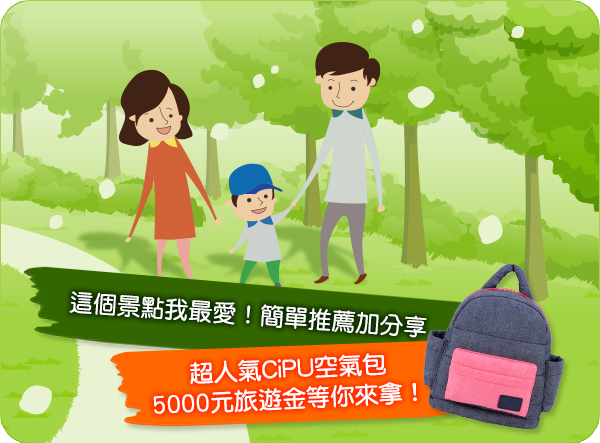
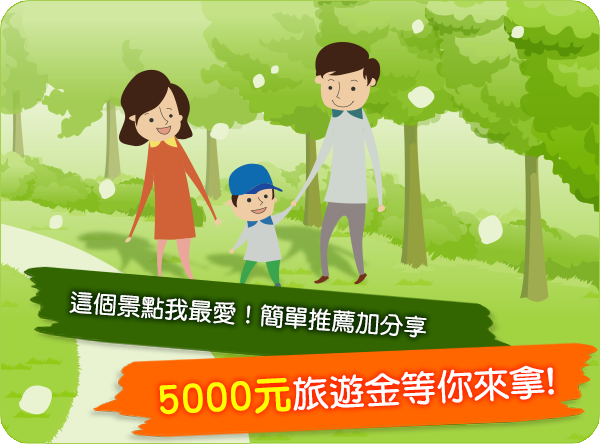
layout optimization

diff --git a/eggshell_v01/event.html b/eggshell_v01/event.html
@@ -278,14 +278,22 @@
             </div>
             <div id="event-index-img">
                 <img src="img/event/event_index.png" />
-            </div>
-            <div class="event-index-btn-group">
-                <img class="event_index_btn1" onclick="ga('send', 'event', '活動頁', 'Click', '分享景點好禮抽');" src="img/event/event_index_btn1.png" />
-                <img class="event_index_btn2" onclick="ga('send', 'event', '活動頁', 'Click', '推薦景點抽大獎');" src="img/event/event_index_btn2.png" />
+                <div class="event-index-btn-group">
+                    <img class="event_index_btn1" onclick="ga('send', 'event', '活動頁', 'Click', '分享景點好禮抽');" src="img/event/event_index_btn1.png" />
+                    <img class="event_index_btn2" onclick="ga('send', 'event', '活動頁', 'Click', '推薦景點抽大獎');" src="img/event/event_index_btn2.png" />
+                </div>
             </div>
             <div class="green-line"></div>
             <div class="event-taiwan">
-                <img src="img/event/event_taiwan.png" />
+                <img src="img/event/event_taiwan.png" style="margin-bottom: 35px;" />
+                <div>
+                    <img src="img/event/event_taiwan_1.png" class="event-taiwan-0" />
+                    <img src="img/event/event_taiwan_2.png" class="event-taiwan-1" />
+                </div>
+                <div>
+                    <img src="img/event/event_taiwan_3.png" class="event-taiwan-2" />
+                    <img src="img/event/event_taiwan_4.png" class="event-taiwan-3" />
+                </div>
             </div>
             <div class="tab-theme-group">
                 <div data-id="0" class="tab-theme" onclick="ga('send', 'event', '活動頁', 'Click', '台北內湖頁籤');">

diff --git a/eggshell_v01/index.html b/eggshell_v01/index.html
@@ -190,6 +190,11 @@
                     </li>
                 </ul>
             </div>
+            <div class="index-main-theme-group">
+                <div class="index-main-theme j-effect">
+                    <a href="event.html" onclick="ga('send', 'event', '首頁', 'Click', '超可惜景點特輯');"><img src="img/index/index_btn.gif" /></a>
+                </div>
+            </div>
             <div id="index-search">
                 <p>精選推薦 : </p>
                 <select>
@@ -203,9 +208,6 @@
             <div class="index-main-theme-group">
                 <div class="index-main-theme">
                     <a href="friend.html" onclick="ga('send', 'event', '首頁', 'Click', '親子團行程');"><img src="img/index/index_btn_01.png" /></a>
-                </div>
-                <div class="index-main-theme j-effect">
-                    <a href="event.html" onclick="ga('send', 'event', '首頁', 'Click', '超可惜景點特輯');"><img src="img/index/index_btn_02.png" /></a>
                 </div>
                 <div class="index-main-theme">
                     <a href="event.html?move_to=event_equipment" onclick="ga('send', 'event', '首頁', 'Click', '酷夏推薦裝備');"><img src="img/index/index_btn_03.png" /></a>

diff --git a/eggshell_v01/js/event.js b/eggshell_v01/js/event.js
@@ -256,6 +256,27 @@ $(document).ready(function() {
         }
     });
 
+    $('.event-taiwan-0').click(function() {
+        $('.tab-theme[data-id="0"]').click();
+        $('.fb-share-action').click();
+    });
+
+    $('.event-taiwan-1').click(function() {
+        $('.tab-theme[data-id="1"]').click();
+        $('.fb-share-action').click();
+    });
+
+    $('.event-taiwan-2').click(function() {
+        $('.tab-theme[data-id="2"]').click();
+        $('.fb-share-action').click();
+    });
+
+    $('.event-taiwan-3').click(function() {
+        $('.tab-theme[data-id="3"]').click();
+        $('.fb-share-action').click();
+    });
+   
+    
     // 0616 james 
     var recommendOffset = $('.activity-group').offset().top - 500;
     $('.event_index_btn2, .activitie').click(function() {
@@ -265,10 +286,10 @@ $(document).ready(function() {
     });
     // 0616 james end
 
-    var theme_groupOffset = $('.tab-theme-group').offset().top - 150;
+    var event_taiwanOffset = $('.event-taiwan').offset().top - 100;
     $('.event_index_btn1').click(function() {
         $('html,body').animate({
-            scrollTop: theme_groupOffset
+            scrollTop: event_taiwanOffset
         }, 500);
     });
 

diff --git a/eggshell_v01/css/event.css b/eggshell_v01/css/event.css
@@ -159,11 +159,18 @@
     transform: none!important;
 }
 
-
 .event-event-btn,
-.activitie {
+.activitie,
+.fb-share-action,
+.event_index_btn1 {
     animation: shake 3s infinite;
 }
+
+.event_index_btn2 {
+    animation: shake 3s infinite;
+    animation-delay: 2s;
+}
+
 
 /*-webkit-@keyframes shake {
     0% {
@@ -185,6 +192,7 @@
         -webkit-transform: rotate(0deg)!important;
     }
 }*/
+
 -webkit-@keyframes shake {
     0% {
         -webkit-transform: rotate(0deg);
@@ -205,6 +213,7 @@
         -webkit-transform: rotate(0deg);
     }
 }
+
 @keyframes shake {
     0% {
         transform: rotate(0deg);
@@ -243,6 +252,7 @@
         -webkit-transform: translateY(2px);
     }
 }
+
 @keyframes up_down {
     0% {
         transform: translateY(2px);
@@ -277,7 +287,13 @@
     margin-left: 75px;
 }
 
+#event-index-img {
+    position: relative;
+}
+
 .event-index-btn-group {
     text-align: center;
-    margin-top: -20px;
+    position: absolute;
+    top: 200px;
+    left: 23%;
 }

diff --git a/eggshell_v01/css/index.css b/eggshell_v01/css/index.css
@@ -30,6 +30,7 @@ body {
 
 #index-search {
     text-align: center;
+    margin-top: 50px;
 }
 
 #index-search > p {
